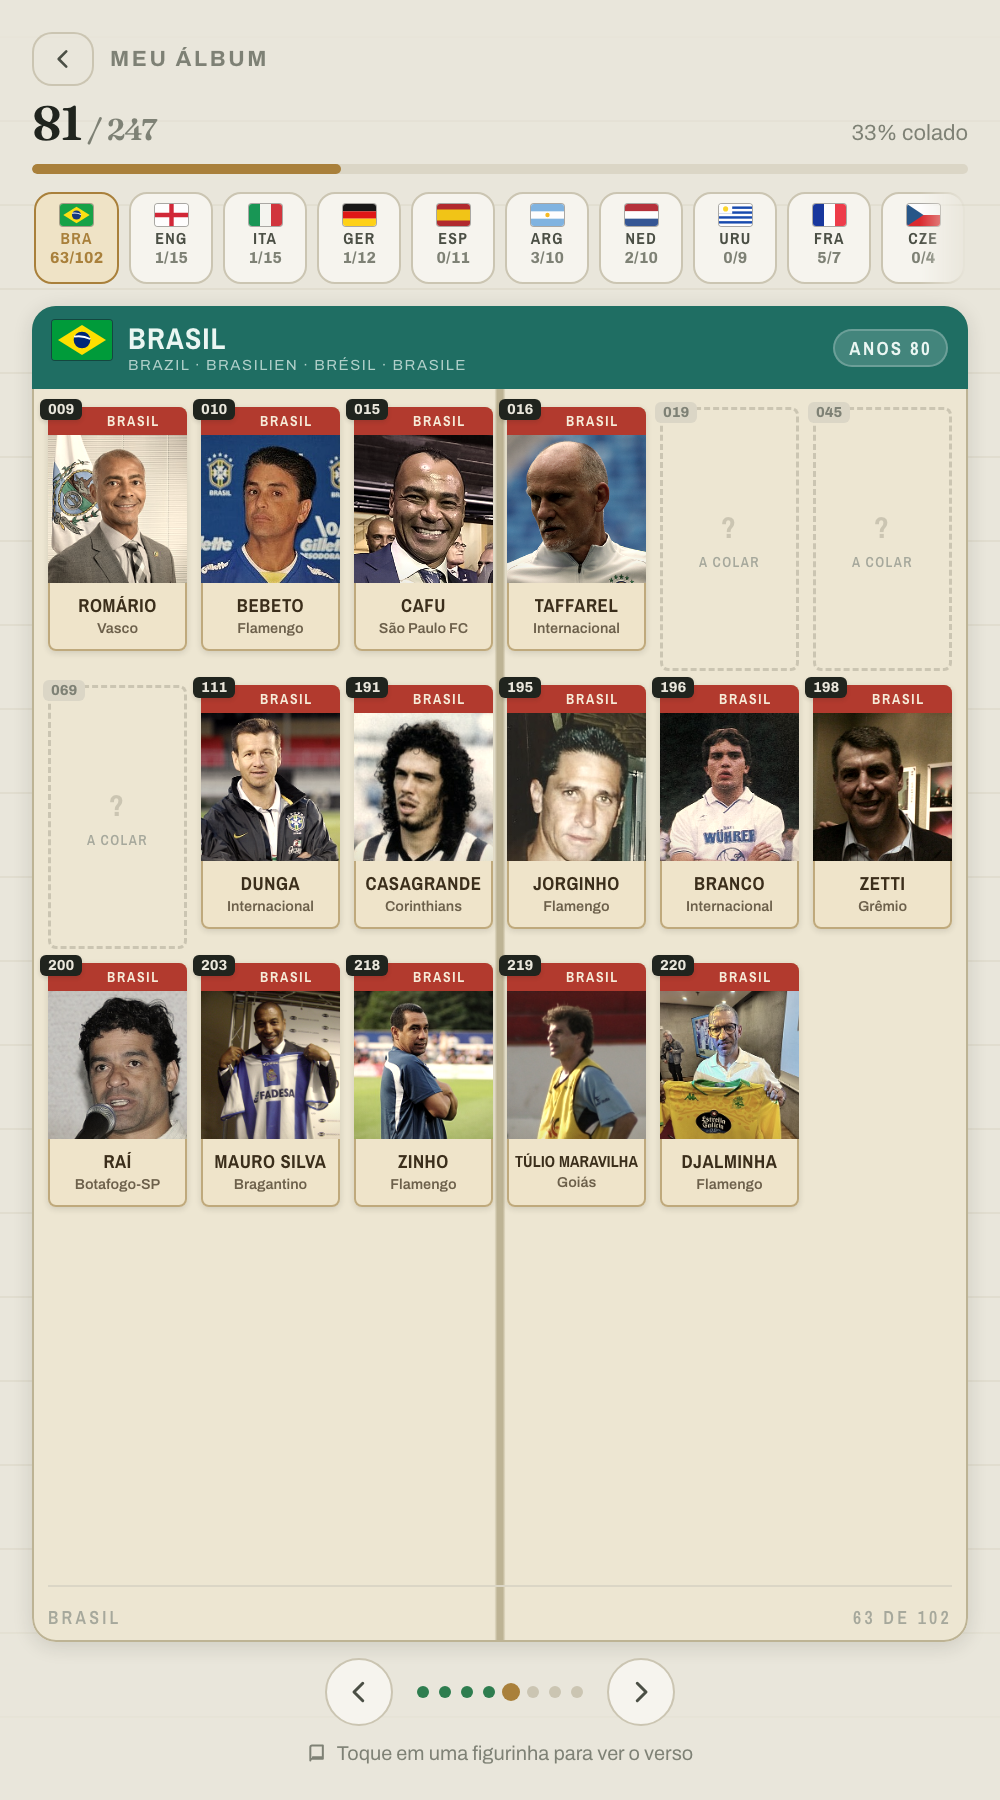
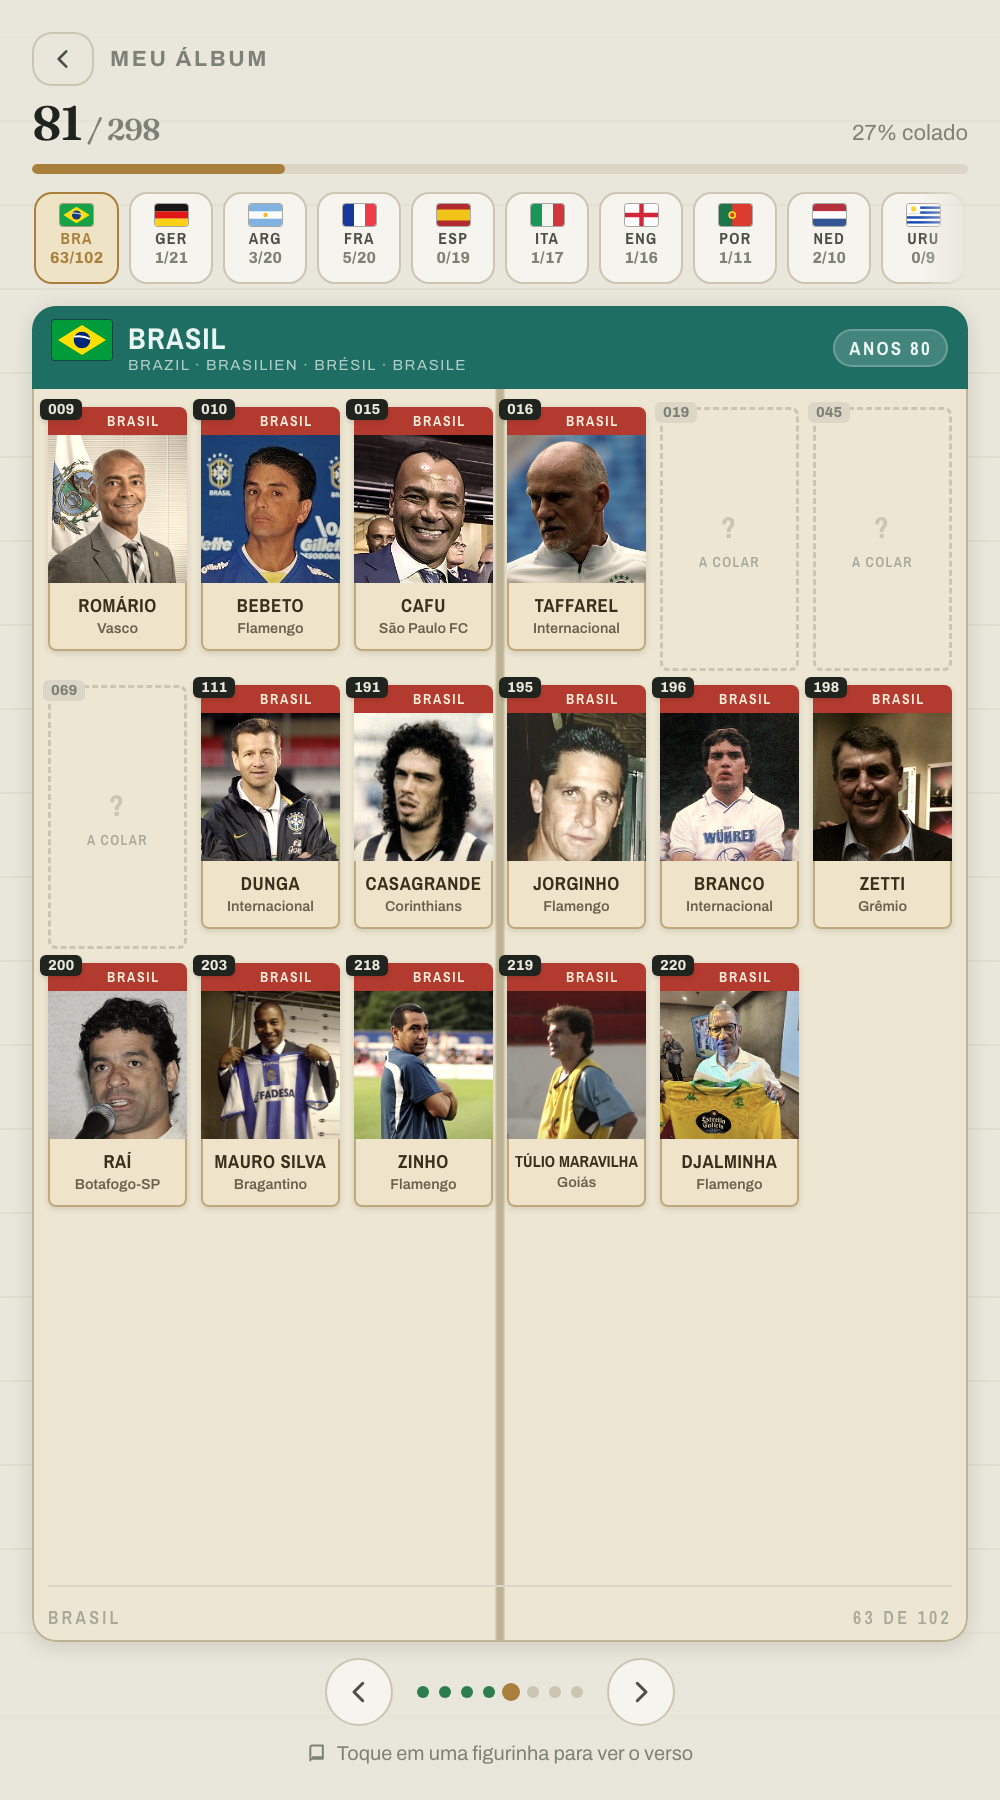
Re-cut the shots for 298, and stop dead images shipping
The album shot still read 81/247. It reads 81/298 now, and the section tabs
carry the real gap — GER 1/21, ARG 3/20, FRA 5/20 — which is a better
argument for the album than a set of full pages.

One orphaned portrait rode along in the last commit. An interrupted fetch
writes the file before it decides the licence is unusable, so a killed run
leaves images nothing references, and the TWA ships every one of them.
validate.py now warns about any img/ file the page never mentions.

Claude-Session: https://claude.ai/code/session_01AeDN92YGYdCLcJmAVMuuVY

diff --git a/tools/validate.py b/tools/validate.py
@@ -81,6 +81,18 @@ for mid, body in re.findall(r"^\s*([\w_]+):\s*\{([^}]*)\}", meta_block, re.M):
     if not re.search(r"pos:'(GK|DF|MF|FW)'", body): errs.append(f"{mid}: bad/missing pos")
     if not re.search(r"clubs:\[", body): errs.append(f"{mid}: missing clubs")
 
+# An image nothing references is dead weight the TWA still ships. They come
+# from interrupted fetch runs, which write the file before deciding the licence
+# is unusable — one rode along in the 298-player commit before this existed.
+_img_dir = os.path.join(os.path.dirname(__file__), "..", "img")
+if os.path.isdir(_img_dir):
+    _refs = set(re.findall(r"img/[0-9a-f]{16}\.(?:jpg|jpeg|png)", s))
+    _orphans = sorted(f for f in os.listdir(_img_dir)
+                      if re.fullmatch(r"[0-9a-f]{16}\.(jpg|jpeg|png)", f)
+                      and "img/" + f not in _refs)
+    if _orphans:
+        warns.append(f"{len(_orphans)} image(s) nothing references: {_orphans[:4]}")
+
 # One club under two ids reads fine everywhere — both render the same crest and
 # the same name — but it silently splits the club's squad in two, and the
 # team-mate generators then offer a man who played there as a wrong answer.
